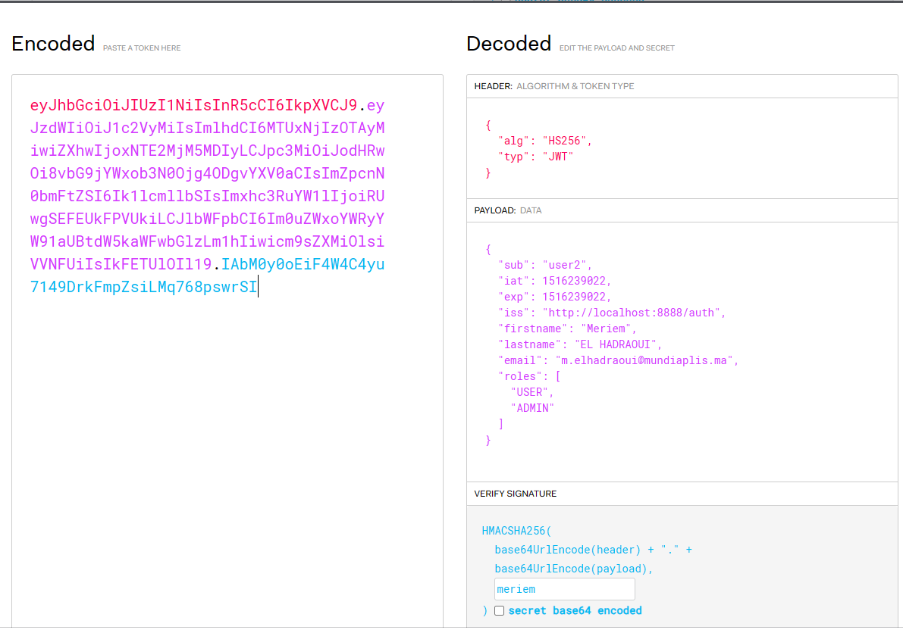
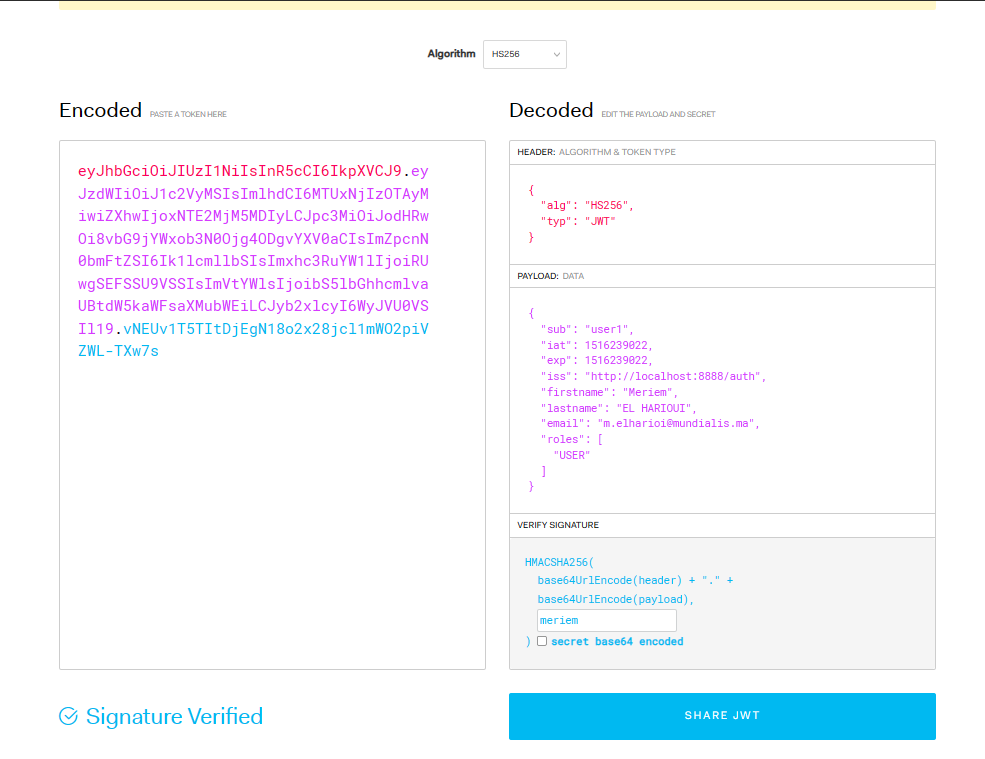
commit

diff --git a/README.md b/README.md
@@ -162,13 +162,14 @@ ng g interceptor nom-intercepteur
 
 <h4>2.4 Envoi de requêtes HTTP vers le Backend</h4>
 <p>
-    Nous pouvons maintenant envoyer des requêtes HTTP à notre backend pour récupérer des données. N'oublions pas d'importer le module correspondant
+    Nous pouvons maintenant envoyer des requêtes HTTP à notre backend pour récupérer des données.Apres  l'importer du module correspondant
     dans le fichier <strong>app.module.ts</strong> de notre application Angular.
 </p>
 <img src="captures/db_json.PNG">
 
 <h2>Captures d'Écran des Pages avec Gestion des Droits d'Accès</h2>
-<h3>Génération des tokens</h3>
+<h3>Génération des tokens avec JWT</h3>
+<p>un jeton JWT contient des informations (revendications) sur un utilisateur et est signé numériquement pour garantir son intégrité. Il peut être utilisé pour authentifier et autoriser les utilisateurs dans un système sécurisé. Le champ "roles" est souvent utilisé pour définir les droits et les permissions associés à un utilisateur.</p>
 <h4>Admin</h4>
 <img src="captures/token_admin.PNG">
 <h4>User normal</h4>
